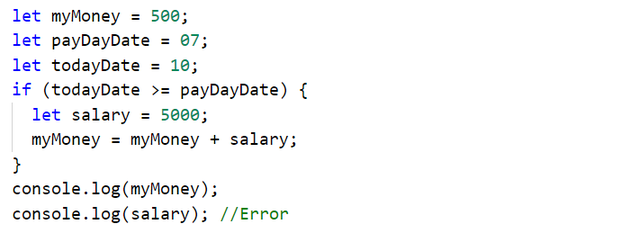
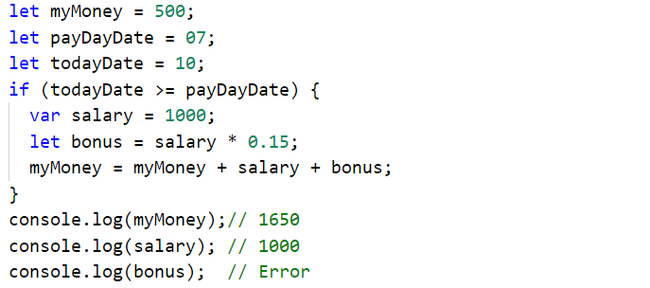
Добавен текст за разликите между var и let и картинка пример

Changed region(s): [[0.0, 0.0, 0.6032, 0.6309], [0.0, 0.6309, 0.4825, 0.9914]]

diff --git a/chapter-03-simple-conditions.md b/chapter-03-simple-conditions.md
@@ -167,9 +167,9 @@ else {
 
 ## Живот на променлива
 
-Всяка една променлива си има обхват, в който съществува, наречен **variable scope**. Този обхват уточнява къде една променлива може да бъде използвана. В езика JavaScript областта, в която една променлива съществува, започва от реда, на който сме я **дефинирали** и завършва до първата затваряща къдрава скоба **}** (на функцията, на **`if` конструкцията** и т.н.). За това е важно да знаем, че **всяка променлива, дефинирана вътре в тялото на `if`, няма да бъде достъпна извън него**, освен ако не сме я дефинирали по-нагоре в кода.
+Всяка една променлива си има обхват, в който съществува, наречен **variable scope**. Този обхват уточнява къде една променлива може да бъде използвана. В езикът JavaScript съществуват **два начина** за инициализиране на променливи. Чрез иползването на ключовата дума **`var`** или **`let`**. Важно е да се отбележи разликата между тях, за да избегнем нежелани резултати при създаването на нашите функции. Обхватът на променливите, инициализирани чрез ключовата дума **`var`**  е **глобален за цялата функция**. Това означава, че променливите **могат да бъдат достъпвани след дефинирането им, независимо от това в коя част на нашия код са били декларирани**. При използването на ключовата дума **`let`**, животът на променливата започва от реда, в който сме я **дефинирали** и завършва до първата затваряща къдрава скоба **}** (на функцията, на **`if` конструкцията** и т.н.). За това е важно да знаем, че **всяка променлива, инициализирана вътре в тялото на `if`, няма да бъде достъпна извън него**, освен ако не сме я дефинирали по-нагоре в кода.
 
-В примера по-долу, на последния ред, на който се опитваме да отпечатаме променливата **`salary`**, която е дефинирана в **`if` конструкцията**, ще получим **грешка**, защото нямаме достъп до нея.
+В примера по-долу, на последните редове, ще се опитаме да извикаме дефинираните променливи. Ще успеем да отпечатаме **`myMoney`**, защото е инициализирана в началото на нашата функция, преди **`if` конструкцията**, което я прави **достъпна навсякъде**. Също така ще е възможно да принтираме и **`salary`**, защото въпреки, че е декларирана в **`if`**, тя има характер на **глобална променлива** (понеже е дефинирана с **`var`**) и може да бъде **използвана навсякъде в обхвата на функцията**. При опитът за отпечатването на **`bonus`**, която е инициализирана в **`if` конструкцията**, ще получим **грешка**, тъй като животът на тази променлива завършва до първата затваряща къдрава скоба **}**  на **`if`**.
 
 ![](assets/chapter-3-1-images/00.Variable-scope-01.png)
 
